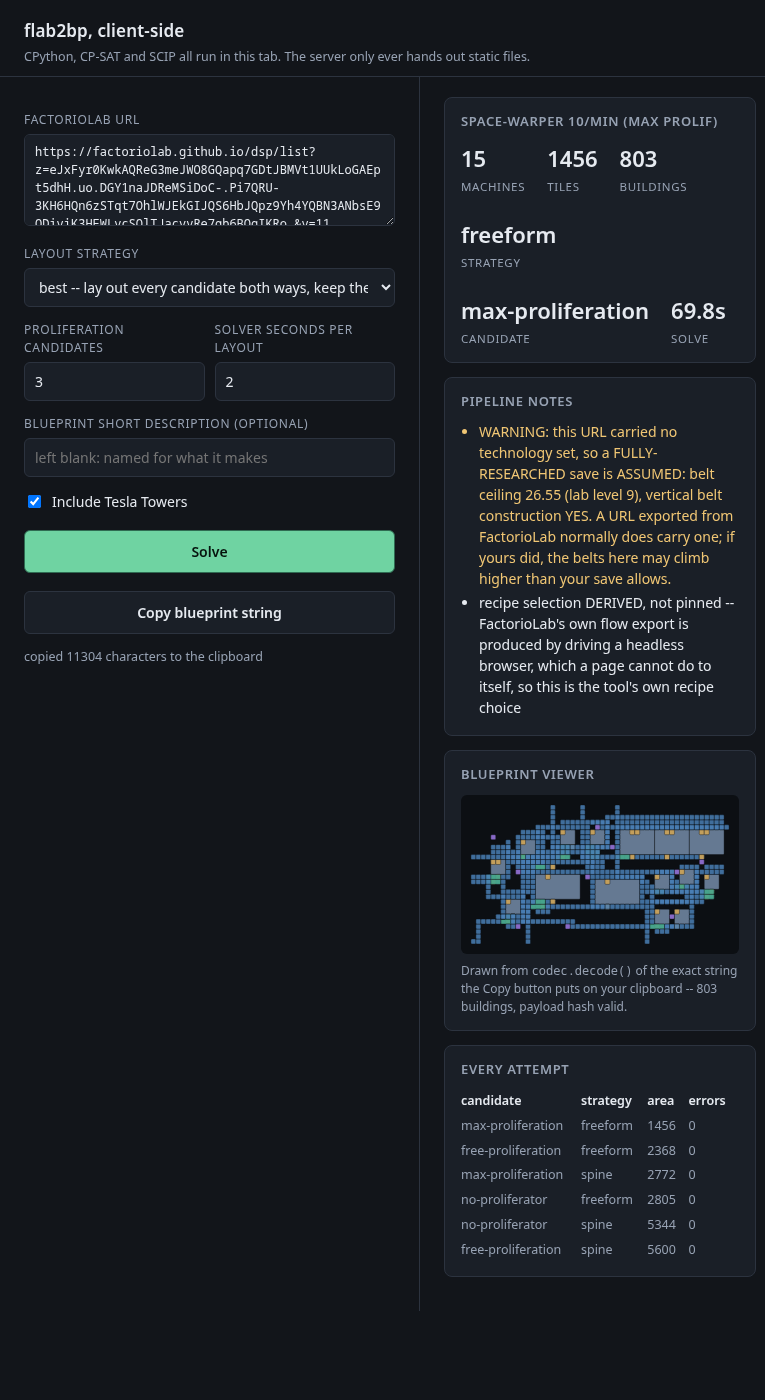
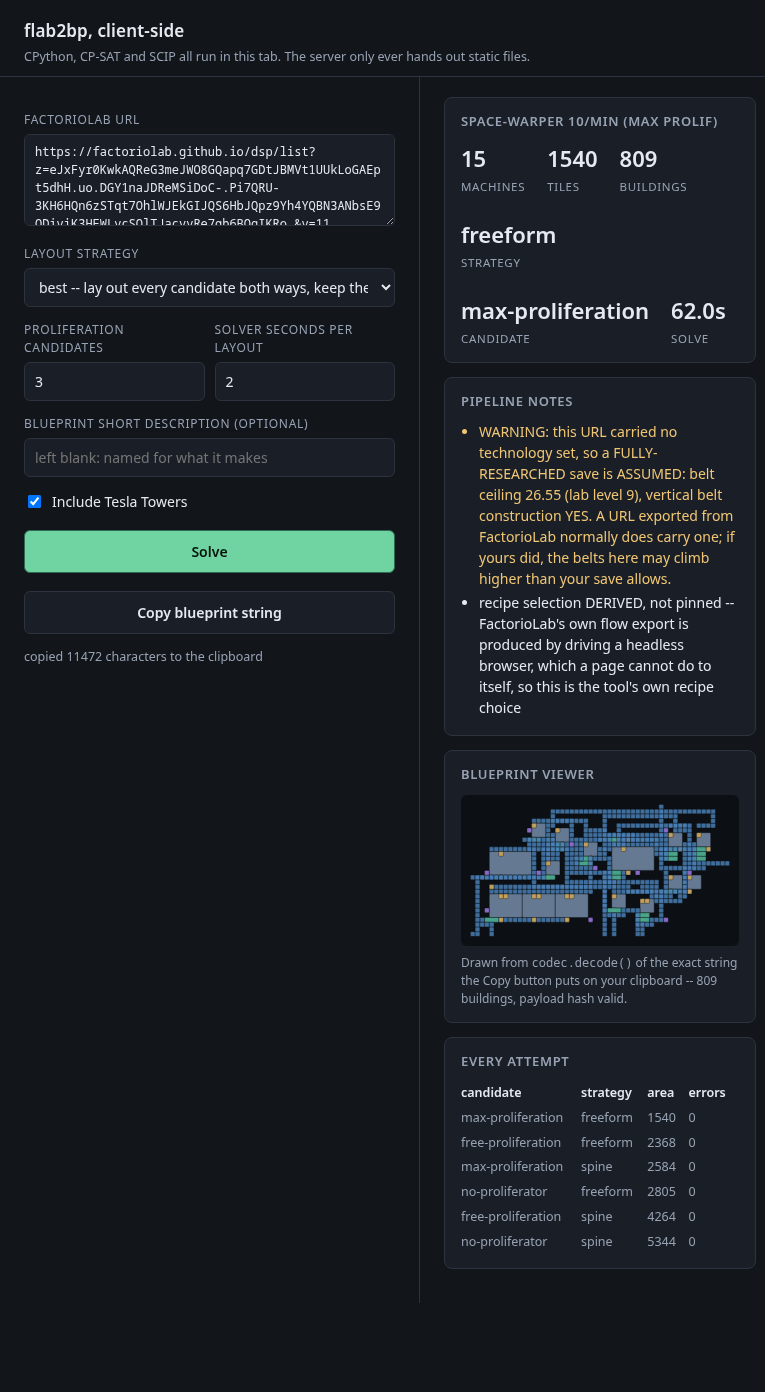
Client-side arm: the bakeoff numbers, measured rather than estimated
Three paired runs, alternating, same URL and options. Native median 22.7s
against 69.6s in the browser -- and the browser's factories are 4-25% LARGER,
because cp_sat_runtime.js is built with pthreadPoolSize=4 while native CP-SAT
takes about 27 cores here. A wall-clock budget buys less search when there are
fewer workers to spend it on.

Cold payload is 54.98 MB over 33 files, two thirds of it the two solver wasms.

Claude-Session: https://claude.ai/code/session_013HkDkPFFBm4MWNAGd4sY7y

diff --git a/web/README.md b/web/README.md
@@ -78,23 +78,70 @@ constraint in one line.
 
 ## Measured
 
-Machine: 128 logical cores, Chromium 151, Pyodide 0.28.3, or-tools-wasm 0.9.1.
-**Every number below was taken while three other agents were building and
-solving on the same box (load average 20-40).**  They are honest for this
-machine under that load and are not clean-room figures; the native baseline in
-the paired comparison was taken the same way.
+Machine: 128 logical cores, Chromium 151, Pyodide 0.28.3, or-tools-wasm 0.9.1,
+Linux.  The paired runs below were taken back to back on a quiet box -- native
+CP-SAT reached 2742% CPU, i.e. about 27 cores, during them.  Read the ratio,
+not the absolute seconds: under contention both arms slow down, but not by the
+same factor, because only one of them can use the whole machine.
 
 ### Cold payload
 
-@@COLD_PAYLOAD@@
+**54.98 MB over 33 files**, measured by the static server's own byte tally for
+one cold load with `Cache-Control: no-store`.  Where it goes:
+
+| MB | file |
+|-----:|------|
+| 18.52 | `mp_solver_runtime.wasm` (SCIP, for the rate MILP) |
+| 8.25 | `pyodide.asm.wasm` (CPython) |
+| 7.10 | `cp_sat_runtime.wasm` (CP-SAT, for layout) |
+| 5.05 | `pandas` |
+| 3.93 | `sympy` |
+| 2.97 | `numpy` |
+| 2.30 | `python_stdlib.zip` |
+| 1.28 | `pydantic_core` |
+| 1.02 | `pyodide.asm.js` |
+| 0.95 | `mp_solver_runtime.js` |
+| 0.76 | `cp_sat_runtime.js` |
+| 0.49 | `pytz` |
+| 0.47 | flab2bp's own wheel, vendored dataset included |
+
+Nothing here is gzipped by `serve.py`; a real static host would compress the
+`.js` and the wheels, though not usefully the two `.wasm` files.  `pandas` and
+`numpy` are there only because ortools' own `cp_model.py` imports them at
+module level; `sympy` is the rate stage's exact-rational LP.  The three biggest
+items -- 33.9 MB of wasm -- are the price of running two real solvers.
 
 ### Cold boot to first interactive
 
-@@BOOT@@
+**10-15 s**, cold, from navigation to the Solve button enabling.  Three runs:
+14.1 s, 10.1 s, 11.1 s.  Broken down on the 14.1 s one: Pyodide 2.1 s, the
+thirteen wheels 2.2 s, then 9.7 s for unpacking the shim, `micropip`-installing
+flab2bp's wheel and importing it.  That last figure is dominated by importing
+flab2bp itself -- `layout/freeform.py` alone is 378 KB of Python.
 
 ### Solve, paired with native, same URL and same options
 
-@@SOLVE@@
+`--strategy best --candidates 3 --budget 2`, the user's own space-warper URL,
+three pairs run alternately on the same machine:
+
+| run | native wall | browser solve | native area | browser area | native buildings | browser buildings |
+|----:|-----------:|--------------:|------------:|-------------:|-----------------:|------------------:|
+| 1 | 36.4 s | 70.5 s | 1254 | 1456 | 717 | 803 |
+| 2 | 22.7 s | 69.6 s | 1170 | 1276 | 723 | 897 |
+| 3 | 21.5 s | 62.4 s | 1232 | 1540 | 714 | 809 |
+
+Median 22.7 s native against 69.6 s in the browser: **about 3x slower**, and
+the browser figure excludes the 10-15 s boot, which a user pays once per page
+load rather than once per solve.
+
+**The browser also builds a bigger factory.**  Every run of both arms picked
+`freeform / max-proliferation` with 15 machines and validated with zero errors,
+but the browser's areas (1276-1540) are consistently larger than the native
+ones (1170-1254) -- 4% to 25% worse.  That is not a bug, it is the four-worker
+cap below: `--budget 2` is a wall-clock budget, so fewer search workers means
+less search inside the same two seconds, and CP-SAT returns the best packing it
+found rather than the best that exists.  Raising `--budget` narrows the gap and
+costs wall clock; it is the honest lever, and the page exposes it.
 
 ### Threading
 
@@ -104,6 +151,11 @@ build time, so however many cores the machine has -- 128 here, and
 at most four search workers in the browser.  The server log shows it directly:
 `cp_sat_runtime.js` is fetched five times per solve, once for the module and
 once for each pool worker.
+
+That is the single biggest difference between the two arms.  Native CP-SAT on
+this machine runs at ~2742% CPU -- about 27 cores; the browser is capped at
+four by a build-time constant in somebody else's npm package.  Changing it
+means rebuilding or-tools for wasm, not configuring anything.
 
 That pool needs `SharedArrayBuffer`, which needs cross-origin isolation.  A
 shared `WebAssembly.Memory` can be *constructed* without isolation but cannot
@@ -118,6 +170,26 @@ on the second.  `web/smoke.py --no-isolation` serves without COOP/COEP -- the
 way GitHub Pages does -- and drives that path.
 
 @@ISOLATION@@
+
+## Proving no server solved it
+
+`smoke.py` asserts this three ways, and the first one could have failed:
+
+1. **The browser runs with every hostname blackholed**
+   (`--host-resolver-rules=MAP * ~NOTFOUND`, excluding only `localhost` and
+   `127.0.0.1` so the driver and the page's own origin still resolve).  A
+   dependency on a CDN, an API, or FactorioLab itself would have failed the
+   solve outright rather than leaving the claim resting on a log.  The solve
+   passed under it.
+2. **The static server logs every request it answered.**  A full run is 41
+   requests, all of them files -- `app.html`, `worker.js`, `bootstrap.py`, the
+   Pyodide core and wheels, the two `.wasm` runtimes, `pyshim.zip` and the
+   flab2bp wheel.  `serve.py` has no POST handler; a POST is logged and
+   answered `405`.
+3. **Chrome's own CDP network log** is captured, and contains nothing
+   off-origin.  This is the weakest of the three and is reported as such: the
+   log only covers the top-level document, because the Web Worker and the wasm
+   runtimes' pool workers are separate CDP targets it does not attach to.
 
 ## What does not work here
 
